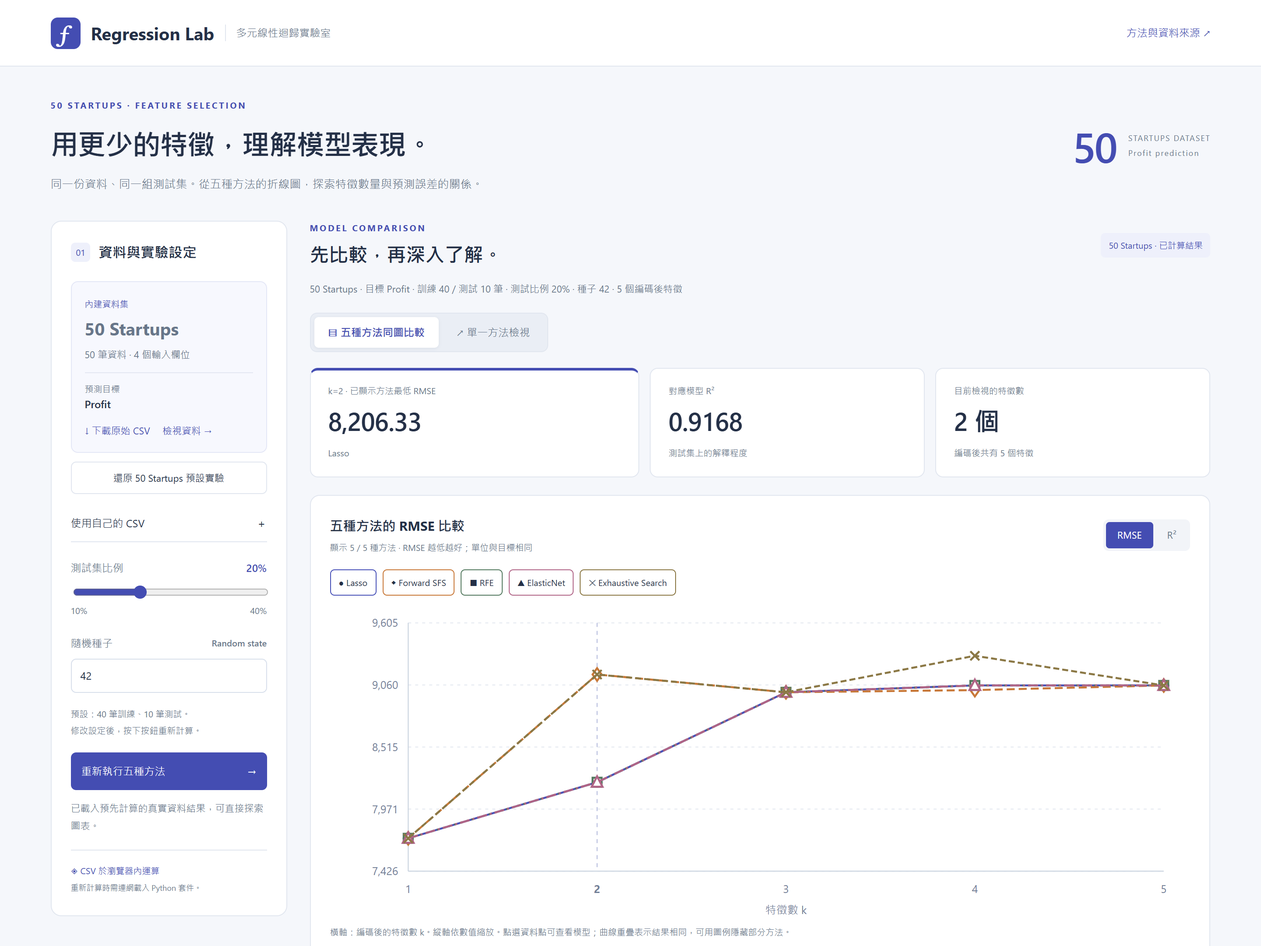
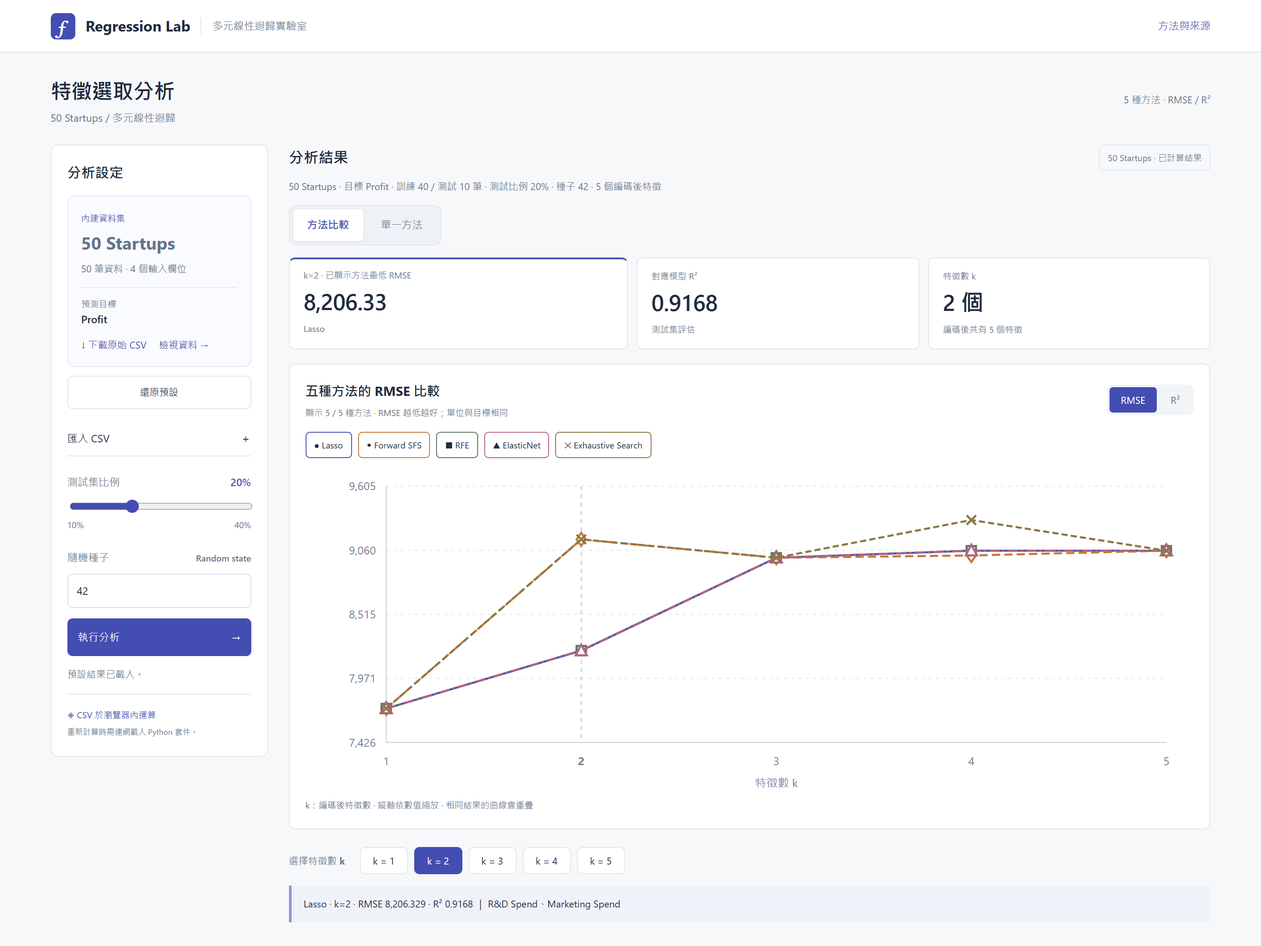
Simplify analysis workspace and reduce mobile screenshot size

diff --git a/dist/style.css b/dist/style.css
@@ -1,3 +1,18 @@
 :root{--ink:#243047;--muted:#68768a;--line:#e1e6ef;--primary:#444db2;--pale:#eef0fb;--bg:#f5f7fb}*{box-sizing:border-box}body{margin:0;background:var(--bg);color:var(--ink);font:14px/1.6 Inter,'Segoe UI','Microsoft JhengHei',sans-serif}button,input,select{font:inherit}button,a,input,select,summary{-webkit-tap-highlight-color:transparent}button{cursor:pointer}button:disabled{opacity:.45;cursor:wait}button:focus-visible,a:focus-visible,input:focus-visible,select:focus-visible,summary:focus-visible{outline:3px solid #848bdf;outline-offset:3px}[hidden]{display:none!important}a{color:var(--primary)}header{height:76px;border-bottom:1px solid var(--line);padding:0 4%;display:flex;align-items:center;justify-content:space-between;background:white}.brand{display:flex;align-items:center;gap:12px;text-decoration:none;color:var(--ink);font-size:20px}.brand>span:last-child{font-size:12px;font-weight:400;color:var(--muted);border-left:1px solid var(--line);padding-left:12px}.logo{display:grid;place-items:center;font:30px Georgia;color:white;background:var(--primary);width:34px;height:36px;border-radius:8px}.header-link{font-size:12px;text-decoration:none}main{max-width:1540px;margin:auto;padding:0 4%}.intro{display:flex;align-items:center;justify-content:space-between;padding:36px 0 31px;gap:24px}.eyebrow{font-size:10px;font-weight:700;letter-spacing:1.8px;color:var(--primary)}h1{font-size:32px;font-weight:650;letter-spacing:-.8px;margin:10px 0 11px}.intro p{color:var(--muted);margin:0;font-size:13px}.dataset-stamp{display:flex;align-items:center;gap:14px;flex-shrink:0}.dataset-stamp strong{font-size:48px;font-weight:500;letter-spacing:-2px;color:var(--primary);line-height:1}.dataset-stamp span{font-size:9px;line-height:1.9;color:var(--muted);letter-spacing:1px}.workspace{display:grid;grid-template-columns:270px minmax(0,1fr);gap:26px;align-items:start}aside{border:1px solid var(--line);border-radius:12px;background:white;padding:22px;position:sticky;top:20px}.panel-title{display:flex;align-items:center;gap:9px}.step{font-size:10px;border-radius:5px;padding:3px 6px;background:var(--pale);color:var(--primary)}h2{font-size:16px;margin:0;font-weight:650}h3{font-size:15px;margin:0;font-weight:650}.dataset-card{background:#f7f8fe;border:1px solid #e4e7f6;border-radius:8px;margin:20px 0 10px;padding:15px}.dataset-type{font-size:10px;color:var(--primary)}.dataset-card h3{font-size:20px;margin-top:3px}.dataset-card p{font-size:11px;color:var(--muted);margin:5px 0 12px}.dataset-target{font-size:10px;color:var(--muted);padding:10px 0;border-top:1px solid #e3e7f2}.dataset-target b{display:block;font-size:12px;color:var(--ink);font-weight:500}.dataset-card a,.text-button{font-size:11px;color:var(--primary);background:none;border:0;text-decoration:none;padding:0}.text-button{margin-left:14px}.secondary{border:1px solid var(--line);color:var(--ink);border-radius:6px;padding:9px 12px;background:white;font-size:11px}.secondary:hover{background:var(--pale)}.full{width:100%}.custom-data{margin:14px 0 20px;padding:10px 0;border-bottom:1px solid var(--line)}details{font-size:12px;color:var(--muted)}summary{cursor:pointer;list-style:none;display:flex;justify-content:space-between;gap:14px;color:var(--ink)}summary::-webkit-details-marker{display:none}.upload{display:flex;flex-direction:column;align-items:center;gap:7px;border:1px dashed #bcc4df;padding:18px 10px;border-radius:6px;cursor:pointer;margin-top:12px}.upload input{position:absolute;width:1px;height:1px;opacity:0}.upload:focus-within{outline:2px solid var(--primary)}.upload span{font-size:10px;overflow-wrap:anywhere}aside>label,.custom-data>label:not(.upload){display:flex;align-items:center;justify-content:space-between;font-size:12px;font-weight:500;margin:20px 0 8px}aside label span{font-size:10px;color:var(--muted)}output{color:var(--primary);font-weight:600}input[type=number],select{width:100%;border:1px solid #d8dfeb;border-radius:6px;padding:9px 10px;background:white;color:var(--ink)}input[type=range]{width:100%;accent-color:var(--primary)}.range-label{display:flex;justify-content:space-between;font-size:10px;color:var(--muted)}.setting-note{font-size:10px;color:var(--muted);line-height:1.9;margin:15px 0}.primary{background:var(--primary);color:white;border:0;border-radius:6px;padding:12px;font-size:12px;display:flex;align-items:center;justify-content:space-between}.primary:hover{background:#333d9d}#cancel{margin-top:8px}#status{font-size:11px;color:var(--muted);line-height:1.8;overflow-wrap:anywhere}.privacy{margin-top:17px;padding-top:14px;border-top:1px solid var(--line);font-size:10px;color:var(--primary);line-height:1.9}.privacy span{color:var(--muted);font-size:9px}.results{min-width:0}.results-head{display:flex;justify-content:space-between;align-items:center;gap:12px}.results-head h2{font-size:22px;margin-top:5px}.source{font-size:10px;color:var(--primary);background:var(--pale);padding:6px 9px;border-radius:5px;white-space:nowrap}.context{font-size:11px;color:var(--muted);margin:12px 0 17px;line-height:1.8}.dirty{padding:10px 13px;background:#fff7e5;border:1px solid #efddae;border-radius:6px;color:#806021;font-size:11px;margin-bottom:15px}.view-controls{display:inline-flex;padding:4px;border:1px solid var(--line);background:#eaeef5;border-radius:8px;gap:4px;margin-bottom:18px}.view-controls button{background:none;border:0;padding:8px 16px;border-radius:5px;font-size:12px;color:var(--muted)}.view-controls button[aria-pressed=true]{background:white;color:var(--primary);box-shadow:0 1px 4px #26344714;font-weight:600}.stats{display:grid;grid-template-columns:1.2fr 1fr 1fr;gap:12px;margin:0 0 20px}.stats>div{background:white;border:1px solid var(--line);border-radius:9px;padding:17px 20px}.stats>div:first-child{border-top:3px solid var(--primary);padding-top:15px}.stats span{font-size:10px;color:var(--muted);display:block}.stats strong{font-size:29px;line-height:1.2;display:block;margin:9px 0 7px;font-weight:600;font-variant-numeric:tabular-nums;letter-spacing:-.5px}.stats small{font-size:10px;color:var(--muted)}.chart-card{border:1px solid var(--line);background:white;border-radius:11px;padding:22px}.plot-top{display:flex;align-items:center;justify-content:space-between;gap:12px}.plot-top p{font-size:10px;margin:5px 0 0;color:var(--muted)}.metric-controls{display:flex;gap:3px;background:#f2f4f8;border-radius:6px;padding:3px}.metric-controls button{padding:6px 13px;border:0;background:none;color:var(--muted);border-radius:4px;font-size:11px}.metric-controls button[aria-pressed=true]{background:var(--primary);color:white}.legend{display:flex;gap:7px;flex-wrap:wrap;margin:17px 0 6px}.legend button{display:flex;align-items:center;gap:7px;padding:6px 9px;border:1px solid var(--line);background:white;border-radius:5px;font-size:10px;color:var(--ink)}.legend button[aria-pressed=false]{opacity:.4}.legend i{width:19px;display:inline-block;border-top:2px solid}.charts{display:grid;grid-template-columns:1fr 1fr;gap:22px;margin-top:22px}.charts article{min-width:0}.charts h3{font-size:12px;display:flex;justify-content:space-between}.charts h3 span{font-size:9px;color:var(--muted);font-weight:400}svg{display:block;width:100%;height:auto;overflow:visible}svg text{font-size:11px;fill:#738198}svg .point{cursor:pointer}svg .point:focus,svg .point:hover{stroke:#192c4d;stroke-width:3;outline:none}.chart-note{color:var(--muted);font-size:10px;margin:9px 0 0;line-height:1.8}.method-tabs{display:flex;gap:7px;flex-wrap:wrap;margin-bottom:17px}.method-tabs button{padding:7px 12px;font-size:11px;background:white;border:1px solid var(--line);border-radius:6px;color:var(--muted)}.method-tabs button[aria-pressed=true]{background:var(--pale);border-color:#b7bee4;color:var(--primary);font-weight:600}.k-controls{display:flex;align-items:center;gap:17px;margin:20px 0 13px;flex-wrap:wrap}.k-controls>span{font-size:11px;color:var(--muted)}.k-controls>div{display:flex;gap:7px;flex-wrap:wrap}.k-controls button{background:white;border:1px solid var(--line);border-radius:6px;padding:6px 14px;font-size:11px;color:var(--ink)}.k-controls button[aria-pressed=true]{color:white;background:var(--primary);border-color:var(--primary)}.pointdetail{font-size:11px;padding:11px 14px;border-left:3px solid #8d96d5;background:var(--pale);line-height:1.8;overflow-wrap:anywhere}.table-head{display:flex;align-items:center;justify-content:space-between;gap:14px;margin:24px 0 13px}.table-head p{font-size:10px;color:var(--muted);margin:4px 0 0}.table-wrap{overflow:auto;border:1px solid var(--line);border-radius:8px;background:white;max-height:380px}table{width:100%;border-collapse:collapse;text-align:left;font-size:11px}th,td{padding:12px 13px;border-bottom:1px solid #edf0f6}th{position:sticky;top:0;background:#f0f3f8;white-space:nowrap;color:#5a6b86;font-size:10px;font-weight:600}td:nth-last-child(-n+2){font-variant-numeric:tabular-nums;white-space:nowrap}td:nth-child(3){min-width:160px;line-height:1.8;color:var(--muted)}tr.best td{background:#f0f3fc}td button{font:inherit;font-weight:600;color:var(--primary);background:none;border:0;padding:0;text-align:left;text-decoration:underline;text-underline-offset:3px}.method-dot{display:inline-block;width:7px;height:7px;border-radius:50%;margin-right:7px}.model-details,.data-preview,#methodology{border:1px solid var(--line);border-radius:8px;background:white;padding:16px 20px;margin-top:20px}.model-details summary{font-weight:600}.model-details p,.data-preview p,#methodology p{font-size:11px;line-height:1.9}.feature-chips{display:flex;flex-wrap:wrap;gap:7px;margin:13px 0}.feature-chips span{background:#f0f3fa;padding:4px 8px;border-radius:4px;font-size:10px;color:#53658a}.equation{font:12px/1.9 Consolas,'Courier New',monospace;color:#435481;background:#f7f8fc;padding:13px 15px;border:1px solid #e7ebf4;border-radius:6px;overflow-wrap:anywhere}.predictor{display:grid;grid-template-columns:1.5fr 1fr;gap:22px;margin-top:22px}.predictor h3{font-size:13px;color:var(--ink)}.predictor p{margin:3px 0 12px}.predictor-inputs{display:grid;grid-template-columns:1fr 1fr;gap:12px}.predictor-inputs label{font-size:10px}.predictor-inputs input,.predictor-inputs select{margin-top:5px;font-size:12px}.prediction-output{background:#f0f2fc;border:1px solid #dce1f4;border-radius:8px;display:flex;flex-direction:column;justify-content:center;padding:24px}.prediction-output span{font-size:11px;color:var(--muted)}.prediction-output strong{font-size:27px;color:var(--primary);margin:8px 0}.prediction-output small{font-size:10px}footer{margin:35px 0 22px;padding-top:20px;border-top:1px solid var(--line);display:flex;justify-content:space-between;color:var(--muted);font-size:10px}@media(min-width:1450px){.intro{padding-top:42px}.combined-chart{max-width:1050px;margin:auto}}@media(max-width:1050px){.workspace{grid-template-columns:235px minmax(0,1fr);gap:20px}aside{padding:18px}.stats>div{padding:15px 12px}.stats>div:first-child{padding-top:13px}.stats strong{font-size:24px}.dataset-stamp{display:none}.charts{grid-template-columns:1fr}.predictor{grid-template-columns:1fr}.chart-card{padding:18px}.results-head{align-items:start;flex-direction:column;gap:8px}.results-head h2{font-size:20px}}@media(max-width:720px){header{padding:0 5%;height:65px}.brand{font-size:17px}.brand>span:last-child,.header-link{display:none}main{padding:0 5%}.intro{padding:26px 0}.intro h1{font-size:25px;line-height:1.5;letter-spacing:-.5px}.intro p{font-size:12px}.workspace{grid-template-columns:1fr;gap:24px}aside{position:static;padding:20px}.stats{gap:7px}.stats span{font-size:9px}.stats strong{font-size:21px}.stats small{font-size:9px}.stats>div{padding:13px 10px}.stats>div:first-child{padding-top:11px}.source{font-size:9px}.view-controls{width:100%}.view-controls button{flex:1;padding:8px;font-size:11px}.chart-card{padding:16px 10px}.plot-top{padding:0 4px;align-items:start}.plot-top h3{font-size:13px}.plot-top p{font-size:9px}.metric-controls button{padding:5px 8px}.legend{gap:5px}.legend button{padding:5px 6px;font-size:9px}.chart-note{font-size:9px;padding:0 4px}.k-controls{gap:10px}.k-controls button{padding:6px 12px}.table-head{align-items:start}.table-head h3{font-size:13px}.table-head p{font-size:9px}.table-head button{white-space:nowrap;font-size:9px}.model-details,.data-preview,#methodology{padding:15px}.predictor-inputs{gap:9px}.prediction-output strong{font-size:25px}}
 .settings-summary{display:none}.settings-panel>label{display:flex;align-items:center;justify-content:space-between;font-size:12px;font-weight:500;margin:20px 0 8px}.settings-panel>label span{font-size:10px;color:var(--muted)}@media(max-width:720px){.settings-summary{display:flex;margin-top:14px;padding:12px;background:var(--pale);border-radius:6px;font-size:11px;color:var(--primary)}}
 .predictor-inputs label:has(input:disabled),.predictor-inputs label:has(select:disabled){opacity:.5}.predictor-inputs :disabled{background:#f1f3f7}
+
+/* Compact analysis workspace */
+:root{--ink:#202c3e;--muted:#64748b;--line:#e2e7ee;--bg:#f7f8fa;--pale:#f0f2fa}
+header{height:60px}.brand{font-size:17px}.logo{width:28px;height:30px;font-size:25px;border-radius:6px}
+main{max-width:1440px}.intro{padding:24px 0 20px;gap:16px}.intro h1{font-size:24px;margin:0 0 3px;letter-spacing:-.4px}.intro p{font-size:12px}.intro-tag{font-size:11px;color:var(--muted);white-space:nowrap}
+.workspace{grid-template-columns:248px minmax(0,1fr);gap:24px}aside{padding:18px;border-radius:8px}.dataset-card{margin-top:14px;background:#fafbfe}#run{margin-top:12px}.results-head h2{font-size:17px;margin:0}.context{margin:8px 0 12px}.source{background:transparent;border:1px solid var(--line);color:var(--muted)}
+.view-controls{margin-bottom:14px;background:#eef1f5}.stats{margin-bottom:16px;gap:10px}.stats>div{padding:12px 16px;border-radius:7px}.stats>div:first-child{padding-top:10px;border-top-width:2px}.stats strong{font-size:26px;margin:6px 0 4px}.chart-card{padding:18px;border-radius:8px}.legend{margin-top:14px}.chart-note{font-size:10px}.privacy{margin-top:12px}.results-head{flex-direction:row;align-items:center}
+@media(max-width:1050px) and (min-width:721px){.workspace{grid-template-columns:220px minmax(0,1fr);gap:18px}.charts{grid-template-columns:1fr}.stats>div{padding-left:12px;padding-right:12px}.stats strong{font-size:23px}}
+@media(max-width:720px){
+  header{height:54px;padding:0 16px}.brand{font-size:16px}main{padding:0 16px}.intro{padding:18px 0 14px}.intro h1{font-size:21px;line-height:1.3}.intro p{font-size:11px}.intro-tag{display:none}
+  .workspace{grid-template-columns:1fr;gap:16px}aside{padding:0 12px;border-radius:7px}.panel-title{display:none}.settings-summary{margin:0;padding:12px 0;background:transparent;font-size:12px;color:var(--ink)}.settings-panel[open]{padding-bottom:14px}.dataset-card{margin-top:0}
+  .results-head{flex-direction:row;align-items:center;gap:8px}.results-head h2{font-size:16px}.source{font-size:9px;padding:4px 6px}.context{font-size:10px;line-height:1.6;margin:7px 0 11px}.view-controls{margin-bottom:12px}.view-controls button{padding:7px 10px}
+  .stats{grid-template-columns:1.2fr 1fr .8fr;gap:6px;margin-bottom:12px}.stats>div{padding:10px 8px}.stats>div:first-child{padding-top:8px}.stats span{font-size:9px;min-height:28px;line-height:1.5}.stats strong{font-size:20px;letter-spacing:-.5px;margin:4px 0}.stats small{font-size:9px;line-height:1.4;display:block}.stats>div:last-child small{display:none}
+  .chart-card{padding:14px 10px}.plot-top h3{font-size:12px}.plot-top p{font-size:9px;max-width:190px}.legend{gap:5px;margin:12px 0 4px}.legend button{min-height:30px;padding:5px 7px}.chart-note{font-size:9px;line-height:1.6}.k-controls{margin:14px 0 10px;gap:8px}.k-controls button{min-height:32px}.pointdetail{font-size:10px;padding:9px 11px}.table-head{margin-top:18px}.model-details,.data-preview,#methodology{margin-top:14px}footer{margin-top:24px}
+}

diff --git a/dist/index.html b/dist/index.html
@@ -1,16 +1,16 @@
 <!doctype html>
 <html lang="zh-Hant"><head><meta charset="utf-8"><meta name="viewport" content="width=device-width,initial-scale=1"><meta name="description" content="使用 50 Startups Dataset 比較五種特徵選取方法，探索多元線性迴歸的 RMSE 與 R²。"><title>50 Startups｜迴歸模型實驗室</title><link rel="stylesheet" href="style.css"></head>
-<body><header><a class="brand" href="./"><span class="logo">ƒ</span><b>Regression Lab</b><span>多元線性迴歸實驗室</span></a><a class="header-link" href="#methodology">方法與資料來源 ↗</a></header>
-<main><section class="intro"><div><div class="eyebrow">50 STARTUPS · FEATURE SELECTION</div><h1>用更少的特徵，理解模型表現。</h1><p>同一份資料、同一組測試集。從五種方法的折線圖，探索特徵數量與預測誤差的關係。</p></div><div class="dataset-stamp"><strong>50</strong><span>STARTUPS DATASET<br>Profit prediction</span></div></section>
-<div class="workspace"><aside><div class="panel-title"><span class="step">01</span><h2>資料與實驗設定</h2></div><details id="settingspanel" class="settings-panel" open><summary class="settings-summary">50 Startups · 調整實驗設定 <span>＋</span></summary><div class="dataset-card"><span class="dataset-type">內建資料集</span><h3 id="datasetname">50 Startups</h3><p id="datasetmeta">50 家公司 · 4 個輸入欄位</p><div class="dataset-target">預測目標 <b id="targetname">Profit（利潤）</b></div><a href="50_Startups.csv" download>↓ 下載原始 CSV</a><button id="previewdata" class="text-button">檢視資料 →</button></div><button id="sample" class="secondary full">還原 50 Startups 預設實驗</button><details class="custom-data"><summary>使用自己的 CSV <span>＋</span></summary><label class="upload" for="file"><strong>選擇 CSV 檔案</strong><span id="filename">最大 2 MB</span><input id="file" type="file" accept=".csv,text/csv"></label><label for="target">預測目標</label><select id="target"></select></details>
-<label for="split">測試集比例 <output id="splitval">20%</output></label><input id="split" type="range" min="10" max="40" step="5" value="20"><div class="range-label"><span>10%</span><span>40%</span></div><label for="seed">隨機種子 <span>Random state</span></label><input id="seed" type="number" min="0" max="2147483647" value="42"><p class="setting-note">預設：40 筆訓練、10 筆測試。<br>修改設定後，按下按鈕重新計算。</p><button id="run" class="primary full">重新執行五種方法 <span>→</span></button><button id="cancel" class="secondary full" hidden>取消運算</button><p id="status" role="status" aria-live="polite">已載入預先計算的真實資料結果。</p><div class="privacy">◈ CSV 於瀏覽器內運算<br><span>重新計算時需連網載入 Python 套件。</span></div></details></aside>
-<section class="results"><div class="results-head"><div><div class="eyebrow">MODEL COMPARISON</div><h2>先比較，再深入了解。</h2></div><span id="source" class="source">50 Startups · 已計算結果</span></div><p id="context" class="context"></p><div id="dirty" class="dirty" role="status" hidden>設定已修改，圖表仍顯示上次結果。請重新執行以套用。</div>
-<div class="view-controls" role="group" aria-label="圖表檢視方式"><button id="comparemode" aria-pressed="true">▤ 五種方法同圖比較</button><button id="singlemode" aria-pressed="false">↗ 單一方法檢視</button></div><div id="methodtabs" class="method-tabs" role="group" aria-label="選擇單一方法" hidden></div>
-<div class="stats"><div><span id="rmselabel">目前特徵數下最低 RMSE</span><strong id="bestRMSE"></strong><small id="bestMethod"></small></div><div><span id="r2label">對應模型 R²</span><strong id="bestR2"></strong><small>測試集上的解釋程度</small></div><div><span>目前檢視的特徵數</span><strong id="bestK"></strong><small id="encodednote">State 以虛擬變數編碼</small></div></div>
-<section class="chart-card"><div class="plot-top"><div><h3 id="plottitle">五種方法的 RMSE 比較</h3><p id="plotsubtitle">同圖疊加比較 · RMSE 越低越好 · 單位與 Profit 相同</p></div><div id="metric-controls" class="metric-controls" role="group" aria-label="比較指標"><button id="metricrmse" aria-pressed="true">RMSE</button><button id="metricr2" aria-pressed="false">R²</button></div></div><div id="legend" class="legend" role="group" aria-label="顯示或隱藏方法"></div><div id="combinedchart" class="combined-chart"></div><div id="singlecharts" class="charts" hidden><article><h3>RMSE <span>↓ 越低越好</span></h3><div id="rmsechart"></div></article><article><h3>R-squared <span>↑ 越高越好</span></h3><div id="r2chart"></div></article></div><p class="chart-note">橫軸：編碼後的特徵數 k。縱軸依數值縮放。點選資料點可查看模型；曲線重疊表示結果相同，可用圖例隱藏部分方法。</p></section>
+<body><header><a class="brand" href="./"><span class="logo">ƒ</span><b>Regression Lab</b><span>多元線性迴歸實驗室</span></a><a class="header-link" href="#methodology">方法與來源</a></header>
+<main><section class="intro"><div><h1>特徵選取分析</h1><p>50 Startups / 多元線性迴歸</p></div><span class="intro-tag">5 種方法 · RMSE / R²</span></section>
+<div class="workspace"><aside><div class="panel-title"><h2>分析設定</h2></div><details id="settingspanel" class="settings-panel" open><summary class="settings-summary">資料與參數 <span>＋</span></summary><div class="dataset-card"><span class="dataset-type">內建資料集</span><h3 id="datasetname">50 Startups</h3><p id="datasetmeta">50 家公司 · 4 個輸入欄位</p><div class="dataset-target">預測目標 <b id="targetname">Profit（利潤）</b></div><a href="50_Startups.csv" download>↓ 下載原始 CSV</a><button id="previewdata" class="text-button">檢視資料 →</button></div><button id="sample" class="secondary full">還原預設</button><details class="custom-data"><summary>匯入 CSV <span>＋</span></summary><label class="upload" for="file"><strong>選擇 CSV 檔案</strong><span id="filename">最大 2 MB</span><input id="file" type="file" accept=".csv,text/csv"></label><label for="target">預測目標</label><select id="target"></select></details>
+<label for="split">測試集比例 <output id="splitval">20%</output></label><input id="split" type="range" min="10" max="40" step="5" value="20"><div class="range-label"><span>10%</span><span>40%</span></div><label for="seed">隨機種子 <span>Random state</span></label><input id="seed" type="number" min="0" max="2147483647" value="42"><button id="run" class="primary full">執行分析 <span>→</span></button><button id="cancel" class="secondary full" hidden>取消運算</button><p id="status" role="status" aria-live="polite">已載入預先計算的真實資料結果。</p><div class="privacy">◈ CSV 於瀏覽器內運算<br><span>重新計算時需連網載入 Python 套件。</span></div></details></aside>
+<section class="results"><div class="results-head"><div><h2>分析結果</h2></div><span id="source" class="source">50 Startups · 已計算結果</span></div><p id="context" class="context"></p><div id="dirty" class="dirty" role="status" hidden>設定已修改，圖表仍顯示上次結果。請重新執行以套用。</div>
+<div class="view-controls" role="group" aria-label="圖表檢視方式"><button id="comparemode" aria-pressed="true">方法比較</button><button id="singlemode" aria-pressed="false">單一方法</button></div><div id="methodtabs" class="method-tabs" role="group" aria-label="選擇單一方法" hidden></div>
+<div class="stats"><div><span id="rmselabel">目前特徵數下最低 RMSE</span><strong id="bestRMSE"></strong><small id="bestMethod"></small></div><div><span id="r2label">對應模型 R²</span><strong id="bestR2"></strong><small>測試集評估</small></div><div><span>特徵數 k</span><strong id="bestK"></strong><small id="encodednote">State 以虛擬變數編碼</small></div></div>
+<section class="chart-card"><div class="plot-top"><div><h3 id="plottitle">五種方法的 RMSE 比較</h3><p id="plotsubtitle">同圖疊加比較 · RMSE 越低越好 · 單位與 Profit 相同</p></div><div id="metric-controls" class="metric-controls" role="group" aria-label="比較指標"><button id="metricrmse" aria-pressed="true">RMSE</button><button id="metricr2" aria-pressed="false">R²</button></div></div><div id="legend" class="legend" role="group" aria-label="顯示或隱藏方法"></div><div id="combinedchart" class="combined-chart"></div><div id="singlecharts" class="charts" hidden><article><h3>RMSE <span>↓ 越低越好</span></h3><div id="rmsechart"></div></article><article><h3>R-squared <span>↑ 越高越好</span></h3><div id="r2chart"></div></article></div><p class="chart-note">k：編碼後特徵數 · 縱軸依數值縮放 · 相同結果的曲線會重疊</p></section>
 <div class="k-controls"><span>選擇特徵數 <b>k</b></span><div id="kbuttons" role="group" aria-label="選擇特徵數"></div></div><div id="pointdetail" class="pointdetail" role="status"></div>
 <div class="table-head"><div><h3 id="tabletitle">相同特徵數下的方法比較</h3><p>依 RMSE 由低至高排列；點選方法檢視模型。</p></div><button id="export" class="secondary">↓ 匯出全部結果</button></div><div class="table-wrap"><table><thead><tr><th>方法</th><th>特徵數</th><th>選取的特徵</th><th>RMSE ↓</th><th>R² ↑</th></tr></thead><tbody id="rows"></tbody></table></div>
-<details id="modeldetails" class="model-details" open><summary><span id="modeltitle">模型細節</span><span>＋</span></summary><p>點選方法或圖表資料點，檢視對應模型的特徵與係數。</p><div id="featurechips" class="feature-chips"></div><div id="equation" class="equation"></div><div class="predictor" id="predictor"><div><h3>試算公司利潤</h3><p>使用目前模型即時試算；未使用的欄位已停用。</p><div class="predictor-inputs"><label>R&D Spend<input id="predrd" type="number" value="100000" min="0" step="1000"></label><label>Marketing Spend<input id="predmarketing" type="number" value="150000" min="0" step="1000"></label><label>Administration<input id="predadmin" type="number" value="120000" min="0" step="1000"></label><label>State<select id="predstate"><option>California</option><option>Florida</option><option>New York</option></select></label></div></div><div class="prediction-output"><span>預測 Profit</span><strong id="predprofit"></strong><small>模型估計值</small></div></div></details>
+<details id="modeldetails" class="model-details" open><summary><span id="modeltitle">模型細節</span><span>＋</span></summary><div id="featurechips" class="feature-chips"></div><div id="equation" class="equation"></div><div class="predictor" id="predictor"><div><h3>利潤預測</h3><p>未使用的欄位已停用。</p><div class="predictor-inputs"><label>R&D Spend<input id="predrd" type="number" value="100000" min="0" step="1000"></label><label>Marketing Spend<input id="predmarketing" type="number" value="150000" min="0" step="1000"></label><label>Administration<input id="predadmin" type="number" value="120000" min="0" step="1000"></label><label>State<select id="predstate"><option>California</option><option>Florida</option><option>New York</option></select></label></div></div><div class="prediction-output"><span>預測 Profit</span><strong id="predprofit"></strong><small>模型估計值</small></div></div></details>
 <details id="datapanel" class="data-preview"><summary>資料預覽 <span>＋</span></summary><p id="datainfo">50 筆資料 · 支出與 Profit 保留原始數值單位</p><div class="table-wrap"><table><thead id="datahead"></thead><tbody id="databody"></tbody></table></div></details>
 <details id="methodology"><summary>方法、評估設定與資料來源 <span>＋</span></summary><p>資料來源：<a href="https://raw.githubusercontent.com/Avik-Jain/100-Days-Of-ML-Code/master/datasets/50_Startups.csv" target="_blank" rel="noreferrer">50 Startups Dataset · Avik Jain / 100-Days-Of-ML-Code</a>。預測目標為 Profit；輸入為 R&D Spend、Administration、Marketing Spend 與 State。State 以 California 為基準，產生 Florida 與 New York 兩個虛擬變數，共 5 個模型特徵。</p><p>五種方法皆在訓練集上選取特徵，再以 LinearRegression 擬合，使用相同測試集評估。Lasso 與 ElasticNet 按係數絕對值排序（X 數值欄位與 y 標準化，α=0.01；ElasticNet 的 l1_ratio=0.5）；RFE 遞迴消除；Forward SFS 與 Exhaustive Search 以訓練集三折交叉驗證的平均 MSE 選擇子集。交叉驗證前處理固定於外層訓練集。零係數同分時依原欄序。</p><p>數值欄位以訓練集中位數補值、標準化；類別欄位補眾數、One-hot 編碼並移除第一類。測試集不參與訓練與特徵選取。各方法可能選到相同特徵，得到重疊曲線。完整搜尋最多支援 10 個編碼後特徵；自訂 CSV 需有 20–3,000 筆有效資料。</p><p>最低測試誤差只是本次切分的觀察結果，不能單憑特徵數認定過度擬合；若據此挑選模型，請以獨立資料再次驗證。本站重新計算結果可能因切分、編碼與選取設定不同，與參考網站的數值不同。</p><p>設計參考：<a href="https://huanchen1107.github.io/AIoT-DIC2-MultipleLR/" target="_blank" rel="noreferrer">50 Startups Multiple Linear Regression Explorer</a> · 技術：<a href="https://scikit-learn.org/stable/modules/feature_selection.html" target="_blank" rel="noreferrer">scikit-learn</a> / <a href="https://pyodide.org/en/0.27.7/usage/quickstart.html" target="_blank" rel="noreferrer">Pyodide</a></p></details>
-</section></div><footer><span>ƒ Regression Lab · 50 Startups</span><span>相同條件，清楚比較。</span></footer></main><script src="startup-data.js"></script><script src="app.js"></script></body></html>
+</section></div><footer><span>ƒ Regression Lab · 50 Startups</span><span>Python / scikit-learn</span></footer></main><script src="startup-data.js"></script><script src="app.js"></script></body></html>

diff --git a/dist/app.js b/dist/app.js
@@ -59,7 +59,7 @@ function render(){
  $('combinedchart').hidden=mode!=='compare';$('singlecharts').hidden=mode!=='single';$('metric-controls').hidden=mode!=='compare';$('methodtabs').hidden=mode!=='single';
  $('metricrmse').setAttribute('aria-pressed',String(metric==='rmse'));$('metricr2').setAttribute('aria-pressed',String(metric==='r2'));
  $('plottitle').textContent=mode==='compare'?'五種方法的 '+(metric==='rmse'?'RMSE':'R²')+' 比較':methods[selected]+' 的特徵選取表現';
- $('plotsubtitle').textContent=mode==='compare'?'顯示 '+activeMethods.size+' / 5 種方法 · '+(metric==='rmse'?'RMSE 越低越好；單位與目標相同':'R² 越高越好；無單位'):'同時檢視誤差與解釋程度 · 相同測試資料';
+ $('plotsubtitle').textContent=mode==='compare'?'顯示 '+activeMethods.size+' / 5 種方法 · '+(metric==='rmse'?'RMSE 越低越好；單位與目標相同':'R² 越高越好；無單位'):'相同測試集 · RMSE / R²';
  $('legend').replaceChildren();
  if(mode==='compare')for(const m of Object.keys(methods)){const b=button(symbols[m]+' '+methods[m],activeMethods.has(m),()=>{if(activeMethods.has(m)){if(activeMethods.size===1)return;activeMethods.delete(m)}else activeMethods.add(m);render()});b.title='顯示或隱藏 '+methods[m];b.style.borderColor=activeMethods.has(m)?colors[m]:'';$('legend').append(b)}
  $('methodtabs').replaceChildren(...Object.keys(methods).map(m=>button(methods[m],m===selected,()=>{selected=m;render()})));
@@ -78,7 +78,7 @@ function setCSV(text,name,useDefault=false){
 }
 function markDirty(){$('dirty').hidden=false;$('status').textContent='資料或設定已變更，請重新執行以更新結果。'}
 function reset(){
- setCSV(defaults.csv,'50_Startups.csv',true);results=defaults.result.rows;selectedK=2;selected='lasso';mode='compare';metric='rmse';activeMethods=new Set(Object.keys(methods));$('split').value='20';$('splitval').textContent='20%';$('seed').value='42';$('dirty').hidden=true;$('source').textContent='50 Startups · 已計算結果';setContext(defaults.result,'Profit',.2,42,'50 Startups');$('status').textContent='已載入預先計算的真實資料結果，可直接探索圖表。';render();
+ setCSV(defaults.csv,'50_Startups.csv',true);results=defaults.result.rows;selectedK=2;selected='lasso';mode='compare';metric='rmse';activeMethods=new Set(Object.keys(methods));$('split').value='20';$('splitval').textContent='20%';$('seed').value='42';$('dirty').hidden=true;$('source').textContent='50 Startups · 已計算結果';setContext(defaults.result,'Profit',.2,42,'50 Startups');$('status').textContent='預設結果已載入。';render();
 }
 $('file').onchange=async e=>{const f=e.target.files[0];if(!f)return;try{if(f.size>2*1024*1024)throw Error('檔案超過 2 MB。');setCSV(await f.text(),f.name)}catch(err){$('status').textContent=err.message}e.target.value=''};
 $('sample').onclick=reset;
@@ -90,7 +90,7 @@ $('singlemode').onclick=()=>{mode='single';render()};
 $('metricrmse').onclick=()=>{metric='rmse';render()};
 $('metricr2').onclick=()=>{metric='r2';render()};
 for(const id of ['predrd','predmarketing','predadmin'])$(id).oninput=predict;$('predstate').onchange=predict;
-function lock(on){busy=on;for(const id of ['file','sample','target','split','seed','run'])$(id).disabled=on;$('cancel').hidden=!on;$('run').firstChild.textContent=on?'運算中…':'重新執行五種方法 '}
+function lock(on){busy=on;for(const id of ['file','sample','target','split','seed','run'])$(id).disabled=on;$('cancel').hidden=!on;$('run').firstChild.textContent=on?'運算中…':'執行分析 '}
 $('run').onclick=()=>{
  if(busy||!csv)return;const seed=Number($('seed').value);if($('seed').value===''||!Number.isInteger(seed)||seed<0||seed>2147483647){$('status').textContent='隨機種子必須為 0–2147483647 的整數。';return}
  lock(true);$('status').textContent='準備分析環境…';const target=$('target').value,test=Number($('split').value)/100,name=isDefault?'50 Startups':'自訂 CSV';
@@ -99,7 +99,7 @@ $('run').onclick=()=>{
   worker.onmessage=({data})=>{
    if(data.status)$('status').textContent=data.status;
    if(data.error){$('status').textContent='運算失敗：'+data.error;worker.terminate();worker=null;lock(false)}
-   if(data.result){results=data.result.rows;selectedK=Math.min(selectedK,data.result.maxk);$('source').textContent=name+' · 新運算結果';setContext(data.result,target,test,seed,name);$('dirty').hidden=true;$('status').textContent='五種方法已完成。可切換比較指標、單一方法與特徵數。';render();lock(false)}
+   if(data.result){results=data.result.rows;selectedK=Math.min(selectedK,data.result.maxk);$('source').textContent=name+' · 新運算結果';setContext(data.result,target,test,seed,name);$('dirty').hidden=true;$('status').textContent='分析完成。';render();lock(false)}
   };
   worker.onerror=()=>{$('status').textContent='Python 環境載入失敗，請檢查網路後重試。';worker.terminate();worker=null;lock(false)};
   worker.postMessage({csv,target,test,seed});

diff --git a/README.md b/README.md
@@ -17,7 +17,7 @@
 
 ## 網站畫面
 
-以下為目前部署網站的實際畫面，以高像素密度擷取並保存為無損 PNG。桌面版原圖為 2880 × 2160，手機版原圖為 1170 × 3600；點選圖片可查看原始尺寸。
+以下為網站介面的實際截圖。桌面版為 2880 × 2160；手機版以 360 × 900 小圖預覽，點選可查看 1080 × 2700 高清原圖。
 
 ### 五種方法同圖比較
 
@@ -29,7 +29,7 @@
 
 ### 手機版
 
-[![手機版比較圖與收合設定](docs/screenshots/mobile.png)](docs/screenshots/mobile.png)
+[![手機版比較圖與收合設定](docs/screenshots/mobile.png)](docs/screenshots/mobile-full.png)
 
 ## 網站功能
 
